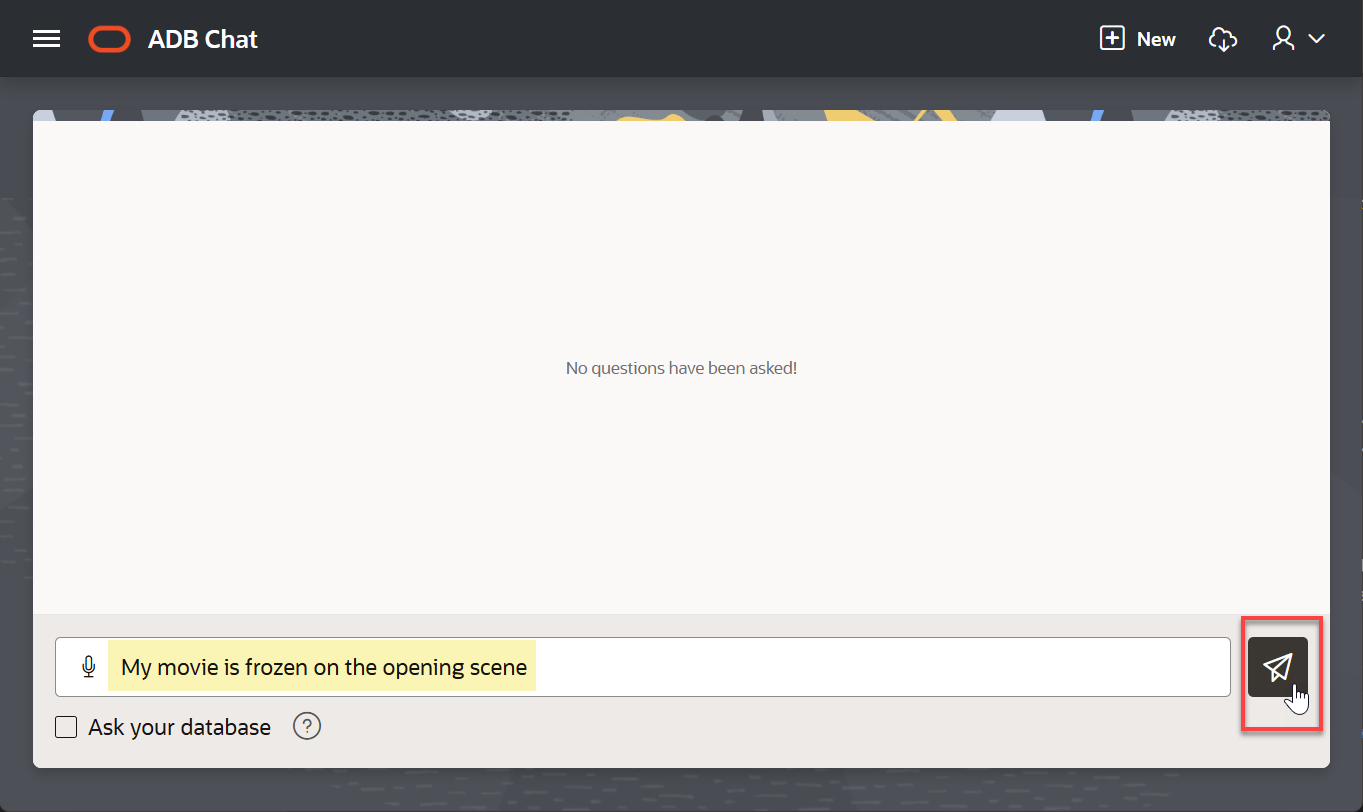
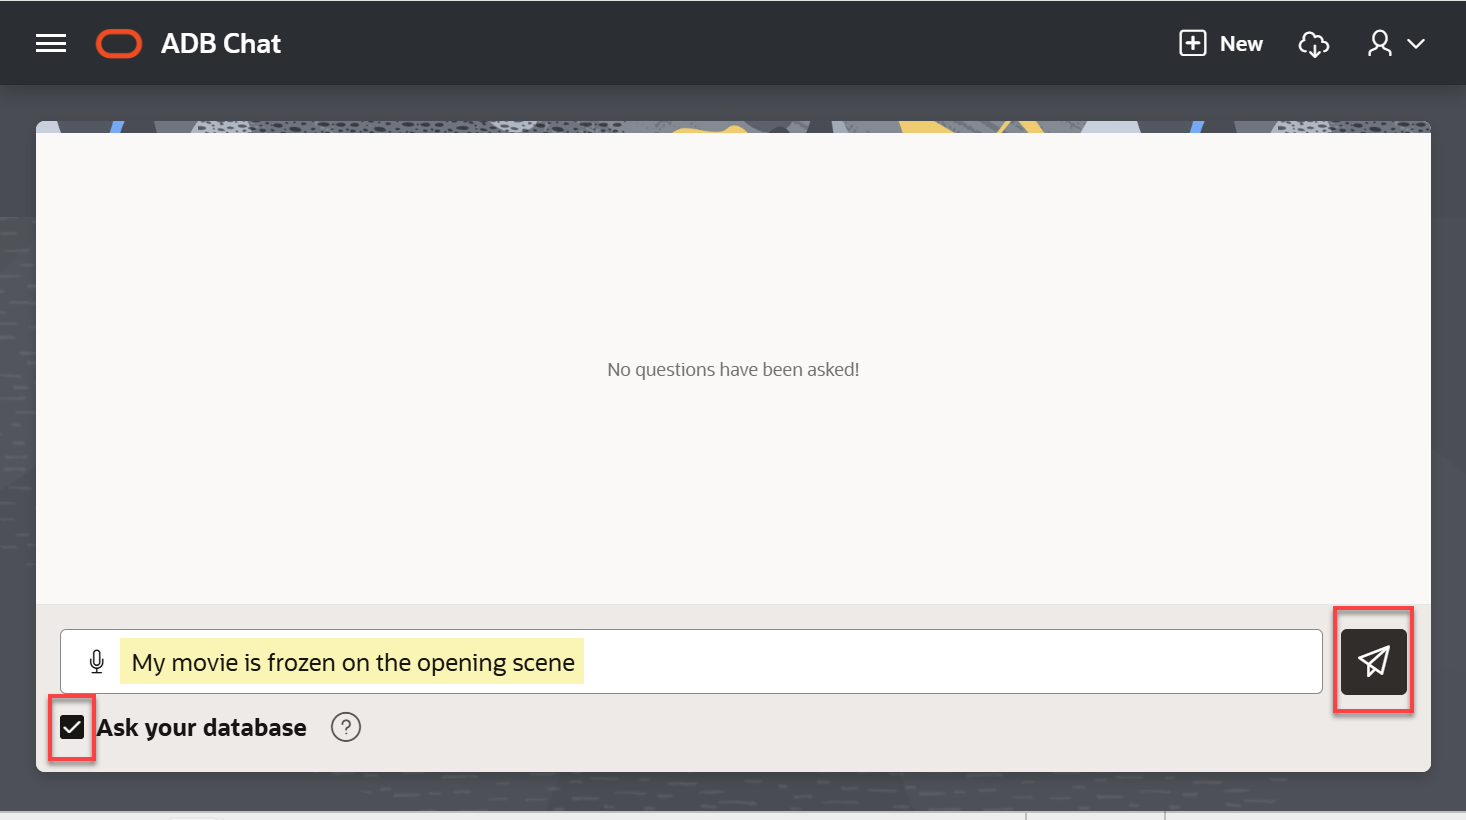
more updates

diff --git a/shared/develop-rag-apps/use-select-ai-demo/use-select-ai-demo.md b/shared/develop-rag-apps/use-select-ai-demo/use-select-ai-demo.md
@@ -2,9 +2,9 @@
 
 ## Introduction
 
-As you can see from the previous labs, **Select AI** makes it easy to build apps that take advantage of natural language queries. In this lab, you'll experiment with a few. When you ran the scripts to set up your environment, The Select AI APEX demo application was also installed. The app is probably the easiest way to get answers about your business and general internet content. Simply ask a question! You can then explore the result, get an understanding of the generated SQL (and even update it if you like) and manage conversations.
+As you can see from the previous labs, **Select AI** makes it easy to build apps that take advantage of natural language queries. You learned how to use **Autonomous Database Select AI (Select AI)** with **Retrieval Augmented Generation (RAG)** to augment your natural language prompt by retrieving content from your specified vector store using semantic similarity search. This reduces hallucinations by using your specific and up-to-date content and provides more relevant natural language responses to your prompts. In this lab, you'll experiment with a few queries. When you ran the scripts to set up your environment in Lab 1, The **Select AI APEX** demo application was also installed. The app is probably the easiest way to get answers about your business and general internet content. Simply ask a question! You can then explore the result, get an understanding of the generated SQL (and even update it if you like) and manage conversations.
 
->**Note:** Refer to lab 3 to review what you learned about creating profiles to specify what LLM provider and database schema/tables to use when answering your questions in the app.
+>**Note:** Refer to lab 2 to review what you learned about creating profiles to specify what LLM provider and the Vector index to use when answering your questions in the app.
 
 Estimated Time: 10 minutes.
 
@@ -23,7 +23,7 @@ In this lab, you will:
 
 ## Task 1: Access the Select AI Demo Application
 
-1. Copy the **Select AI demo** application URL that you saved in a text editor.
+1. Copy the **Select AI demo** application URL that you saved in a text editor earlier in Lab 1.
 
     ![Copy the URL value](./images/demo-credentials-file.png =65%x*)
 
@@ -39,9 +39,9 @@ In this lab, you will:
 
     ![Select AI application displayed](./images/select-ai-application.png =70%x*)
 
-## Task 2: Ask Natural Language and Database Questions Using the Application
+3. Click **Close** to exit the **AI Settings** panel.
 
-1. 
+## Task 2: Ask Natural Language and Database Questions Using the Application
 
 You can use this application to ask the following types of questions:
 
@@ -56,14 +56,11 @@ _Select the **Ask Database** checkbox_ to ask questions about your business data
   ![Ask the database](./images/ask-database.png =70%x*)
 
   <!---
-  Where do you specify what LLM provider and database schema/tables to use when answering your questions? When you create the profile using **`DBMS_CLOUD_AI.CREATE_PROFILE`** PL/SQL procedure, you specify the LLM provider, the credential, the schema, and the tables to use to answer your natural language questions on general data or your business data that is stored in your database.
-
-  ![Create profile diagram](./images/create-profile-diagram.png " ")
---->
+  --->
 
 Let's experiment a bit with both general data from the `internet` and also from the `moviestream` support site.
 
-1. Enter your question using a free form format in the **Ask a Question** text box such as `My movie is frozen on the opening scene`, and make sure that the **Ask Database** checkbox is not checked since this is a general internet question that will be handled by your LLM provider. Next, click the **Run** icon, or press **[ENTER]**.
+1. Enter your question using a free form format in the **Ask a Question** text box such as `My movie is frozen on the opening scene`. Select the **Ask your database** checkbox is checked since this is a general internet question and also one that uses the internal moviestream support site. Next, click the **Run** icon, or press **[ENTER]**.
 
     >**Note:** You can type your own natural language question. You don't have to use the exact question that we show in our examples.
 

diff --git a/shared/develop-rag-apps/integrate-genai/integrate-genai.md b/shared/develop-rag-apps/integrate-genai/integrate-genai.md
@@ -77,12 +77,12 @@ There are 4 things to do in order to connect Autonomous Database to an AI provid
 
 >**Note:** All of these steps have already been done for accessing OCI GenAI when you deployed your Autonomous Database. You can review the deployment steps below. You will need to execute these steps when connecting to non-Oracle AI providers.
 
-A Select AI profile encapsulates connection information for an AI provider. This includes: 
+A Select AI profile encapsulates connection information for an AI provider and Vector search. This includes:
 
 1. A security credential (e.g. the resource principal for OCI GenAI or a credential that captures a secret for a 3rd party AI provider)
 2. The name of the provider
 3. The name of the LLM (optional)
-4. A list of target tables that will be used for natural language queries (required when using NL2SQL)
+4. A Vector index
 
 You can create as many profiles as you need, which is useful when comparing the quality or performance of the results of different models.
 
